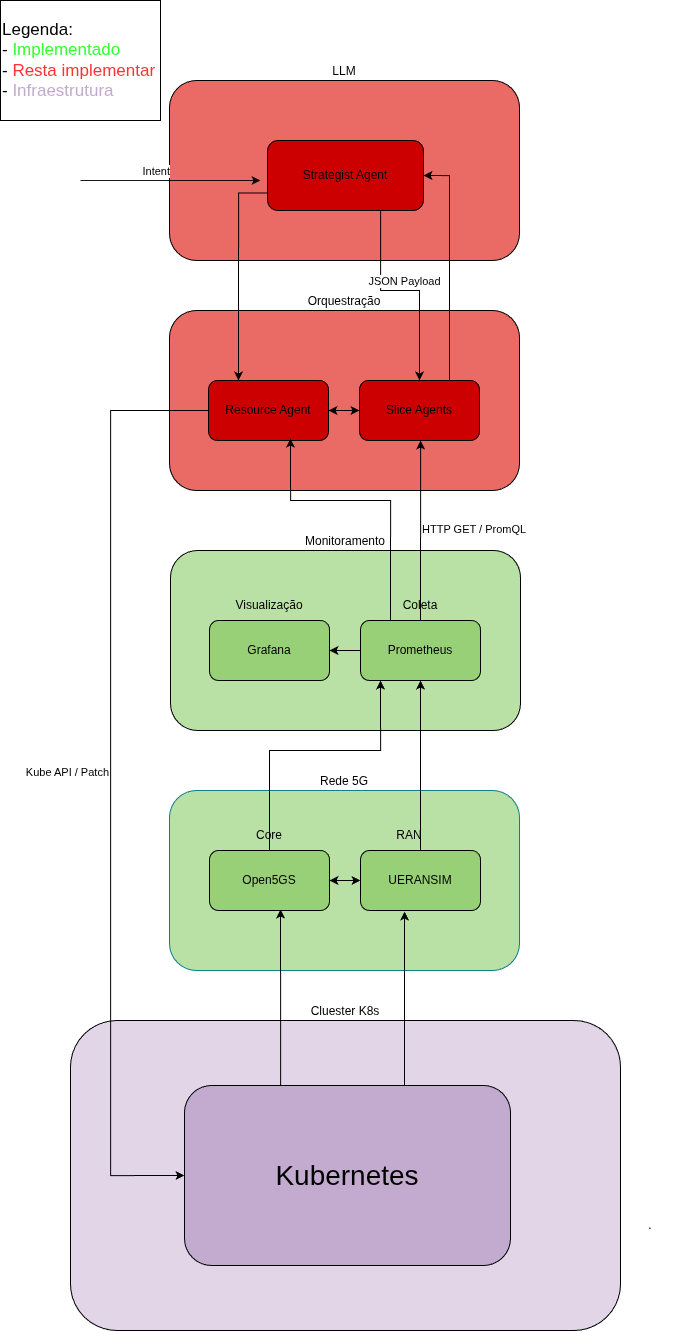
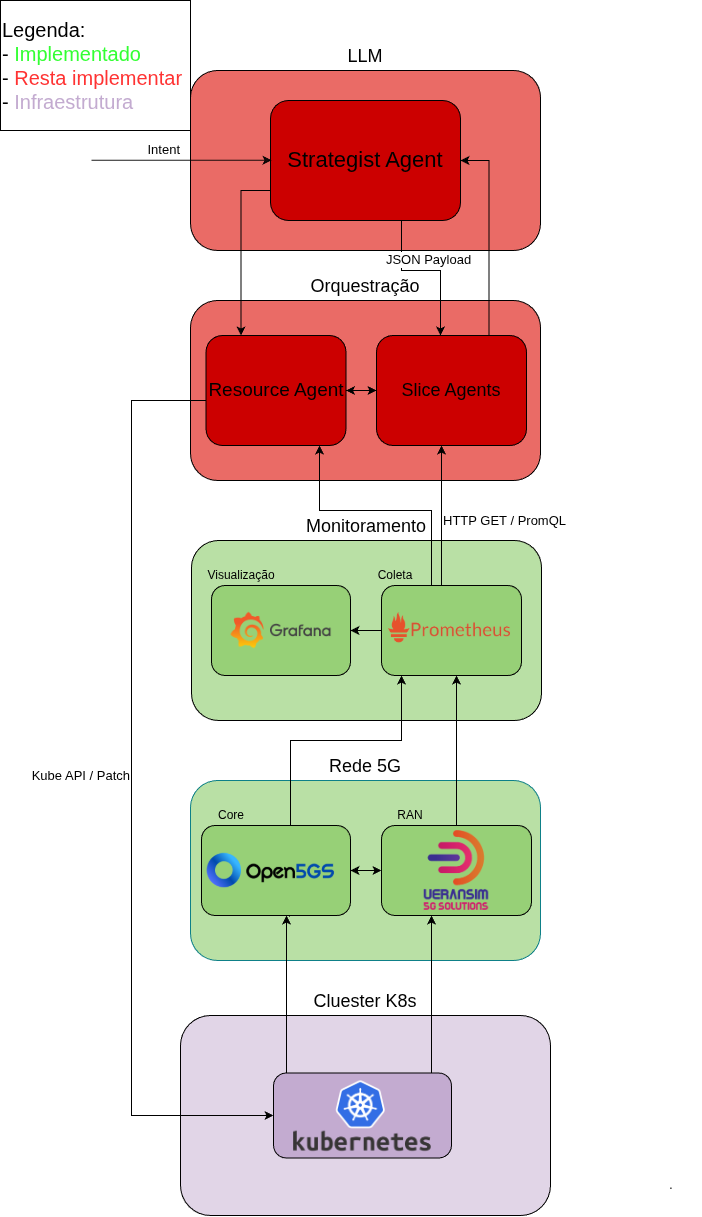
[ADICIONADO] Ligação dos SliceAgents com o Prometheus

diff --git a/spade_agents/slice_agents.py b/spade_agents/slice_agents.py
@@ -1,4 +1,5 @@
 import json
+import resource
 import time
 import spade
 import asyncio
@@ -8,6 +9,7 @@ from spade.behaviour import PeriodicBehaviour
 from spade.message import Message
 from spade.template import Template
 from kubernetes import client, config
+from prometheus_api_client import PrometheusConnect
 
 # CONSTANTS
 NAMESPACE = "nrprediger"
@@ -23,55 +25,135 @@ class SliceAgent(Agent):
             if msg:
                 if msg.get_metadata("performative") == "cfp":
                     print(f"[{self.agent.name}] CFP receveid from Resource Agent. Calculating bid...")
-                    bid = self.agent.base_bid
-                    target_cpu = self.agent.target_cpu
-                    current_cpu = self.agent.current_cpu
-                    upf = self.agent.upf_target
+                    # 1. Calculate utilization based on current CPU usage and CPU limit
+                    usage = self.agent.cpu_usage
+                    limit = self.agent.cpu_limit
+                    budget = self.agent.budget
 
+                    utilization = (usage / limit ) if limit > 0.0 else 0.0
+                    print(f"[{self.agent.name}] Current CPU Utilization: {utilization:.2%} ({usage}/{limit})")
+
+                    # 2. Dynamic Bidding
+                    if utilization > 0.8:
+                        target_cpu = limit + 0.5
+                        bid = min(budget, self.agent.base_bid * 1.5)
+                        print(f"[{self.agent.name}] HIGH STRESS! Requesting {target_cpu} CPU. Bidding {bid}.")
+                    
+                    elif utilization < 0.4:
+                        target_cpu = limit
+                        bid = min(budget, self.agent.base_bid * 0.1)
+                        print(f"[{self.agent.name}] LOW STRESS. Maintaining target {target_cpu} CPU. Bidding {bid}.")
+                    else:
+                        target_cpu = limit
+                        bid = min(budget, self.agent.base_bid)
+                        print(f"[{self.agent.name}] COMFORTABLE. Maintaining target {target_cpu} CPU. Bidding {bid}.")
+                    
                     reply = Message(to=str(msg.sender))
                     reply.set_metadata("performative", "propose")
                     reply.body = json.dumps({
                         "bid" : bid,
                         "cpu_target" : target_cpu,
-                        "current_cpu" : current_cpu,
-                        "upf_target" : upf
+                        "cpu_limit" : limit,
+                        "upf_target" : self.agent.upf_target
                     }) 
 
                     await self.send(reply)
+
                 if msg.get_metadata("performative") == "accept-proposal":
                     msg_data = json.loads(msg.body)
                     print(f"[{self.agent.name}] Bid accepted. Value to pay: {msg_data['value']}.")
-                    self.agent.current_cpu = self.agent.target_cpu
+                    self.agent.cpu_limit = msg_data["new_cpu"]
                     self.agent.budget -= msg_data['value']
                 if msg.get_metadata("performative") == "reject-proposal":
                     msg_data = json.loads(msg.body)
-                    self.agent.current_cpu = msg_data["new_cpu"]
-                    print(f"[{self.agent.name}] Bid rejected. CPU reduced to: {self.agent.current_cpu}.")
-
+                    self.agent.cpu_limit = msg_data["new_cpu"]
+                    print(f"[{self.agent.name}] Bid rejected. CPU reduced to: {self.agent.cpu_limit}.")
+    class ResourceMonitoring(PeriodicBehaviour):
+        async def on_start(self):
+            print("[MONITORING] Starting resource monitoring behavior (runs every 5 seconds).")
+        async def run(self):
+            upf_name = self.agent.upf_target
+            resource = "cpu"
+            usage = self.agent.prometheus_query(upf_name, resource)
+            if usage:
+                self.agent.cpu_usage = usage
+            else:
+                print("[ERROR] Failed to retrieve resource usage from Prometheus.")
+            income = 15.0  # Adjust this to change how fast they recover
+            max_budget = 200.0 # Prevent infinite wealth hoarding
+            
+            self.agent.budget += income
+            self.agent.budget = min(self.agent.budget, max_budget)
+    def prometheus_query(self, upf_name, resource):
+        # Query (Ex: rate(container_cpu_usage_seconds_total{namespace="nrprediger", pod=~"upf-.*", container="upf"}[1m]))
+        query = self.prom.custom_query(f"rate(container_{resource}_usage_seconds_total{{namespace=\"{NAMESPACE}\", pod=~\"{upf_name}-.*\", container=\"{upf_name}\"}}[1m])")
+        # Print the result
+        if query:
+            resource_usage = query[0]['value'][1]
+            return float(resource_usage)
+        else:
+            return None
+    def fetch_initial_limits(self):
+        print(f"[{self.name}] Fetching initial CPU configuration from Kubernetes...")
+        try:
+            # Connect to K8s API
+            config.load_kube_config()
+            v1 = client.CoreV1Api()
+            
+            # Find the pod for this specific UPF
+            pods = v1.list_namespaced_pod(namespace=NAMESPACE, label_selector=f"app={self.upf_target}")
+            
+            if pods.items:
+                pod = pods.items[0]
+                resources = pod.spec.containers[0].resources
                 
+                if resources and resources.limits and 'cpu' in resources.limits:
+                    cpu_str = resources.limits['cpu']
+                    
+                    # Convert K8s format (e.g., "500m" or "1") to a Python float (0.5 or 1.0)
+                    if cpu_str.endswith('m'):
+                        self.cpu_limit = float(cpu_str[:-1]) / 1000.0
+                    else:
+                        self.cpu_limit = float(cpu_str)
+                        
+                    print(f"[{self.name}] Successfully loaded initial CPU Limit: {self.cpu_limit}")
+                else:
+                    print(f"[{self.name}] Pod found, but no CPU limit specified. Defaulting to 1.0")
+                    self.cpu_limit = 1.0
+            else:
+                print(f"[{self.name}] [ERROR] Pod app={self.upf_target} not found! Defaulting to 1.0")
+                self.cpu_limit = 1.0
+                
+        except Exception as e:
+            print(f"[{self.name}] [ERROR] Failed to fetch limits from K8s: {e}. Defaulting to 1.0")
+            self.cpu_limit = 1.0
     async def setup(self):
         print(f"[{self.name}] Slice Agent starting...")
+        self.fetch_initial_limits()
+        self.prom = PrometheusConnect(url ="http://localhost:35235/", disable_ssl=True)
+        self.add_behaviour(self.ResourceMonitoring(period=5))
         self.add_behaviour(self.AuctionParticipant())
         return await super().setup()
 async def main():
     slice_video_agent = SliceAgent("slice_video_agent@localhost", "password")
     slice_video_agent.base_bid = 85.0
-    slice_video_agent.target_cpu = 1.5
-    slice_video_agent.current_cpu = 1.0
+    slice_video_agent.cpu_usage = 1.0
     slice_video_agent.upf_target = "upf"
-    slice_video_agent.budget = 100.0
+    slice_video_agent.budget = 200.0
 
-    slice_iperf_agent = SliceAgent("slice_iperf_agent@localhost", "password")
-    slice_iperf_agent.base_bid = 30.0
-    slice_iperf_agent.target_cpu = 1.0
-    slice_iperf_agent.current_cpu = 1.0
-    slice_iperf_agent.upf_target = "upf2"
-    slice_iperf_agent.budget = 50.0
-
-
-
-
-    await slice_iperf_agent.start()
+    # Create iperf agents 
+    iperf_agents = []
+    for i in range(2,10):
+        agent_name = f"slice_iperf_agent{i}@localhost"
+        agent = SliceAgent(agent_name, "password")
+        agent.base_bid = 30.0
+        agent.cpu_usage = 1.0
+        agent.upf_target = f"upf{i}"
+        agent.budget = 100.0
+        iperf_agents.append(agent)
+    
+    for agent in iperf_agents:
+        await agent.start()
     await slice_video_agent.start()
     print("SliceAgents are running...")
 
@@ -82,7 +164,8 @@ async def main():
     except KeyboardInterrupt:
         print("Stopping SliceAgents...")
         await slice_video_agent.stop()
-        await slice_iperf_agent.stop()
+        for agent in iperf_agents:
+            await agent.stop()
 
 if __name__ == "__main__":
     spade.run(main(), embedded_xmpp_server=False)

diff --git a/spade_agents/resource_agent.py b/spade_agents/resource_agent.py
@@ -73,13 +73,13 @@ class ResourceAgent(Agent):
                 bid_data = json.loads(bid.body)
                 bid_value = float(bid_data["bid"])
                 cpu_target = float(bid_data["cpu_target"])
-                current_cpu = float(bid_data["current_cpu"])
+                cpu_limit = float(bid_data["cpu_limit"])
                 structured_bids.append({
                     "sender": bid.sender, 
                     "bid": bid_value, 
                     "upf_target": bid_data["upf_target"],
                     "cpu_target": cpu_target,
-                    "current_cpu": current_cpu
+                    "cpu_limit": cpu_limit
 
                 })
             structured_bids.sort(key=lambda x: x["bid"], reverse=True)
@@ -87,7 +87,7 @@ class ResourceAgent(Agent):
             # Announce the result of the auction
             number_of_bids = len(structured_bids)
             # Calculate the quantity of CPU reduction for the loser(s) based on winner's cpu target
-            cpu_reduce = (structured_bids[0]["cpu_target"]-structured_bids[0]["current_cpu"])/(number_of_bids-1) if number_of_bids > 1 else 0
+            cpu_reduce = (structured_bids[0]["cpu_target"]-structured_bids[0]["cpu_limit"])/(number_of_bids-1) if number_of_bids > 1 else 0
             for i, bid in enumerate(structured_bids):
                 msg = Message(to=str(bid["sender"]))
                 if i == 0:
@@ -95,9 +95,9 @@ class ResourceAgent(Agent):
                     print(f"[AUCTION] Winner: {bid['sender']} with bid {bid['bid']}. Price to pay: {value}. CPU set to: {bid['cpu_target']}.")
                     self.agent.update_pod_cpu(bid["upf_target"], bid["cpu_target"])
                     msg.set_metadata("performative", "accept-proposal")
-                    msg.body = json.dumps({ "value": value })
+                    msg.body = json.dumps({ "value": value , "new_cpu": bid["cpu_target"] })
                 else:
-                    new_cpu = max(bid["current_cpu"]-cpu_reduce, 0.1)
+                    new_cpu = max(bid["cpu_limit"]-cpu_reduce, 0.1)
                     print(f"[AUCTION] Loser: {bid['sender']} with bid {bid['bid']}. CPU reduced to: {new_cpu}.")
                     self.agent.update_pod_cpu(bid["upf_target"], new_cpu)
                     msg.set_metadata("performative", "reject-proposal")
@@ -165,21 +165,18 @@ class ResourceAgent(Agent):
                     # Update the CPU resource request/limit
                     pod_name = pod.metadata.name
                     # Create a patch to update the CPU resources
-                    patch ={
-                        "spec": {
-                            "containers": [{
-                                "name": upf_name,  
-                                    "resources": {
-                                        "requests": {
-                                            "memory": new_memory
-                                        },
-                                        "limits": {
-                                            "memory": new_memory
-                                        }
-                                    }
-                            }]
+                    patch = [
+                        {
+                            "op": "replace",
+                            "path": "/spec/containers/0/resources/requests/memory",
+                            "value": new_memory
+                        },
+                        {
+                            "op": "replace",
+                            "path": "/spec/containers/0/resources/limits/memory",
+                            "value": new_memory
                         }
-                    }
+                    ]
                     self.v1.patch_namespaced_pod_resize(name=pod_name, namespace=NAMESPACE, body=patch)
                     print(f"[SUCCESS] Updated MEMORY for pod {pod_name} to {new_memory}")
             else:
